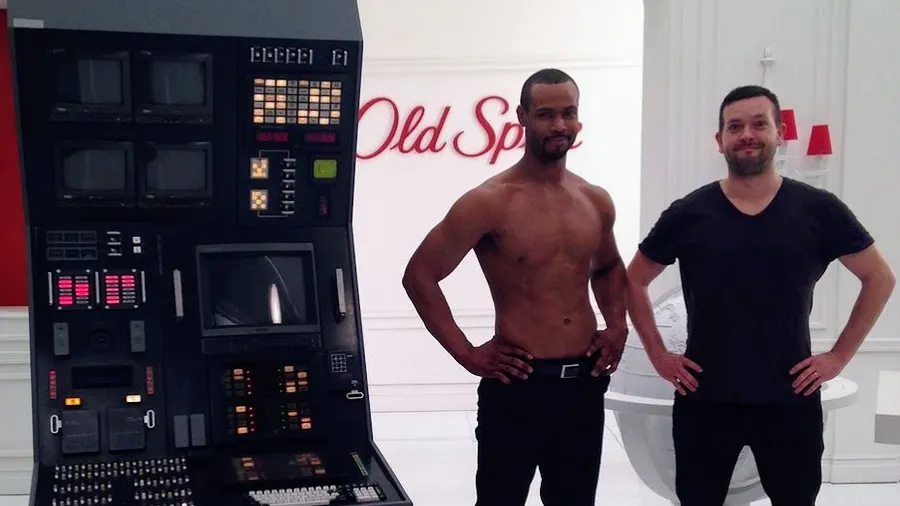
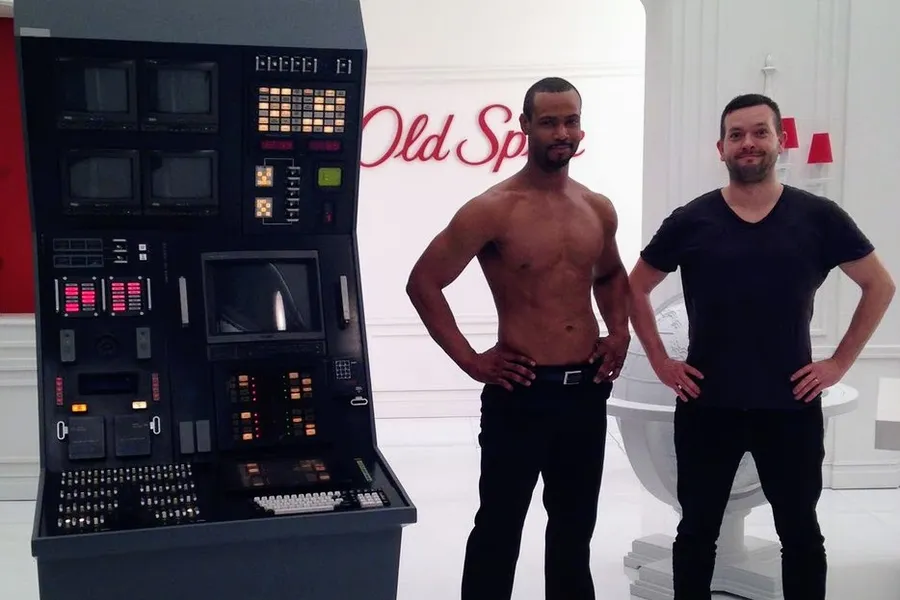
Use edited Old Spice photo (2.webp, clean 3:2); cache-bust ?v=3

diff --git a/new/index.html b/new/index.html
@@ -21,7 +21,7 @@
 <link rel="icon" href="favicon.svg" type="image/svg+xml">
 <link rel="icon" href="favicon-32.png" sizes="32x32" type="image/png">
 <link rel="apple-touch-icon" href="apple-touch-icon.png">
-<link rel="stylesheet" href="css/site.css?v=1784925520">
+<link rel="stylesheet" href="css/site.css?v=1784925704">
 </head>
 
 <body>
@@ -51,7 +51,7 @@
                data-shot-desktop="assets/headshots/1.webp"
                data-shot-mobile="assets/headshots/1-landscape.webp"
                width="200" height="200" decoding="async">
-          <img src="assets/headshots/2.webp?v=2" alt="Mark Pytlik on the Old Spice set" style="object-position:78% center" data-shot width="200" height="200" decoding="async">
+          <img src="assets/headshots/2.webp?v=3" alt="Mark Pytlik on the Old Spice set" style="object-position:78% center" data-shot width="200" height="200" decoding="async">
           <img src="assets/headshots/3.webp" alt="Mark Pytlik speaking on stage" style="object-position:25% center" data-shot width="200" height="200" decoding="async">
           <img src="assets/headshots/4.webp" alt="Mark Pytlik with his daughter" style="object-position:center 30%" data-shot width="200" height="200" decoding="async">
         </div>
@@ -188,12 +188,12 @@
 
 </div><!-- /.page-card -->
 
-<script src="js/media.js?v=1784925520"></script>
-<script src="js/reel.js?v=1784925520"></script>
-<script src="js/reveal.js?v=1784925520"></script>
-<script src="js/home.js?v=1784925520"></script>
-<script src="js/lately.js?v=1784925520"></script>
-<script src="js/marquee-swipe.js?v=1784925520"></script>
-<script src="js/bg.js?v=1784925520"></script>
+<script src="js/media.js?v=1784925704"></script>
+<script src="js/reel.js?v=1784925704"></script>
+<script src="js/reveal.js?v=1784925704"></script>
+<script src="js/home.js?v=1784925704"></script>
+<script src="js/lately.js?v=1784925704"></script>
+<script src="js/marquee-swipe.js?v=1784925704"></script>
+<script src="js/bg.js?v=1784925704"></script>
 </body>
 </html>

diff --git a/new/casper.html b/new/casper.html
@@ -27,7 +27,7 @@
 <link rel="icon" href="favicon.svg" type="image/svg+xml">
 <link rel="icon" href="favicon-32.png" sizes="32x32" type="image/png">
 <link rel="apple-touch-icon" href="apple-touch-icon.png">
-<link rel="stylesheet" href="css/site.css?v=1784925520">
+<link rel="stylesheet" href="css/site.css?v=1784925704">
 </head>
 
 <body data-case="casper">
@@ -50,9 +50,9 @@
   </article>
 </div>
 
-<script src="js/media.js?v=1784925520"></script>
-<script src="js/cases.js?v=1784925520"></script>
-<script src="js/case.js?v=1784925520"></script>
-<script src="js/bg.js?v=1784925520"></script>
+<script src="js/media.js?v=1784925704"></script>
+<script src="js/cases.js?v=1784925704"></script>
+<script src="js/case.js?v=1784925704"></script>
+<script src="js/bg.js?v=1784925704"></script>
 </body>
 </html>

diff --git a/new/hinge.html b/new/hinge.html
@@ -27,7 +27,7 @@
 <link rel="icon" href="favicon.svg" type="image/svg+xml">
 <link rel="icon" href="favicon-32.png" sizes="32x32" type="image/png">
 <link rel="apple-touch-icon" href="apple-touch-icon.png">
-<link rel="stylesheet" href="css/site.css?v=1784925520">
+<link rel="stylesheet" href="css/site.css?v=1784925704">
 </head>
 
 <body data-case="hinge">
@@ -50,9 +50,9 @@
   </article>
 </div>
 
-<script src="js/media.js?v=1784925520"></script>
-<script src="js/cases.js?v=1784925520"></script>
-<script src="js/case.js?v=1784925520"></script>
-<script src="js/bg.js?v=1784925520"></script>
+<script src="js/media.js?v=1784925704"></script>
+<script src="js/cases.js?v=1784925704"></script>
+<script src="js/case.js?v=1784925704"></script>
+<script src="js/bg.js?v=1784925704"></script>
 </body>
 </html>

diff --git a/new/stink-studios-rebrand.html b/new/stink-studios-rebrand.html
@@ -27,7 +27,7 @@
 <link rel="icon" href="favicon.svg" type="image/svg+xml">
 <link rel="icon" href="favicon-32.png" sizes="32x32" type="image/png">
 <link rel="apple-touch-icon" href="apple-touch-icon.png">
-<link rel="stylesheet" href="css/site.css?v=1784925520">
+<link rel="stylesheet" href="css/site.css?v=1784925704">
 </head>
 
 <body data-case="stink">
@@ -50,9 +50,9 @@
   </article>
 </div>
 
-<script src="js/media.js?v=1784925520"></script>
-<script src="js/cases.js?v=1784925520"></script>
-<script src="js/case.js?v=1784925520"></script>
-<script src="js/bg.js?v=1784925520"></script>
+<script src="js/media.js?v=1784925704"></script>
+<script src="js/cases.js?v=1784925704"></script>
+<script src="js/case.js?v=1784925704"></script>
+<script src="js/bg.js?v=1784925704"></script>
 </body>
 </html>

diff --git a/new/nike.html b/new/nike.html
@@ -27,7 +27,7 @@
 <link rel="icon" href="favicon.svg" type="image/svg+xml">
 <link rel="icon" href="favicon-32.png" sizes="32x32" type="image/png">
 <link rel="apple-touch-icon" href="apple-touch-icon.png">
-<link rel="stylesheet" href="css/site.css?v=1784925520">
+<link rel="stylesheet" href="css/site.css?v=1784925704">
 </head>
 
 <body data-case="nike">
@@ -50,9 +50,9 @@
   </article>
 </div>
 
-<script src="js/media.js?v=1784925520"></script>
-<script src="js/cases.js?v=1784925520"></script>
-<script src="js/case.js?v=1784925520"></script>
-<script src="js/bg.js?v=1784925520"></script>
+<script src="js/media.js?v=1784925704"></script>
+<script src="js/cases.js?v=1784925704"></script>
+<script src="js/case.js?v=1784925704"></script>
+<script src="js/bg.js?v=1784925704"></script>
 </body>
 </html>

diff --git a/new/steve-jobs-archive.html b/new/steve-jobs-archive.html
@@ -27,7 +27,7 @@
 <link rel="icon" href="favicon.svg" type="image/svg+xml">
 <link rel="icon" href="favicon-32.png" sizes="32x32" type="image/png">
 <link rel="apple-touch-icon" href="apple-touch-icon.png">
-<link rel="stylesheet" href="css/site.css?v=1784925520">
+<link rel="stylesheet" href="css/site.css?v=1784925704">
 </head>
 
 <body data-case="sja">
@@ -50,9 +50,9 @@
   </article>
 </div>
 
-<script src="js/media.js?v=1784925520"></script>
-<script src="js/cases.js?v=1784925520"></script>
-<script src="js/case.js?v=1784925520"></script>
-<script src="js/bg.js?v=1784925520"></script>
+<script src="js/media.js?v=1784925704"></script>
+<script src="js/cases.js?v=1784925704"></script>
+<script src="js/case.js?v=1784925704"></script>
+<script src="js/bg.js?v=1784925704"></script>
 </body>
 </html>

diff --git a/new/work.html b/new/work.html
@@ -13,7 +13,7 @@
 <link rel="icon" href="favicon.svg" type="image/svg+xml">
 <link rel="icon" href="favicon-32.png" sizes="32x32" type="image/png">
 <link rel="apple-touch-icon" href="apple-touch-icon.png">
-<link rel="stylesheet" href="css/site.css?v=1784925520">
+<link rel="stylesheet" href="css/site.css?v=1784925704">
 </head>
 
 <body>
@@ -61,9 +61,9 @@
 
 </div><!-- /.page-card -->
 
-<script src="js/reveal.js?v=1784925520"></script>
-<script src="js/cases.js?v=1784925520"></script>
-<script src="js/work.js?v=1784925520"></script>
-<script src="js/bg.js?v=1784925520"></script>
+<script src="js/reveal.js?v=1784925704"></script>
+<script src="js/cases.js?v=1784925704"></script>
+<script src="js/work.js?v=1784925704"></script>
+<script src="js/bg.js?v=1784925704"></script>
 </body>
 </html>
